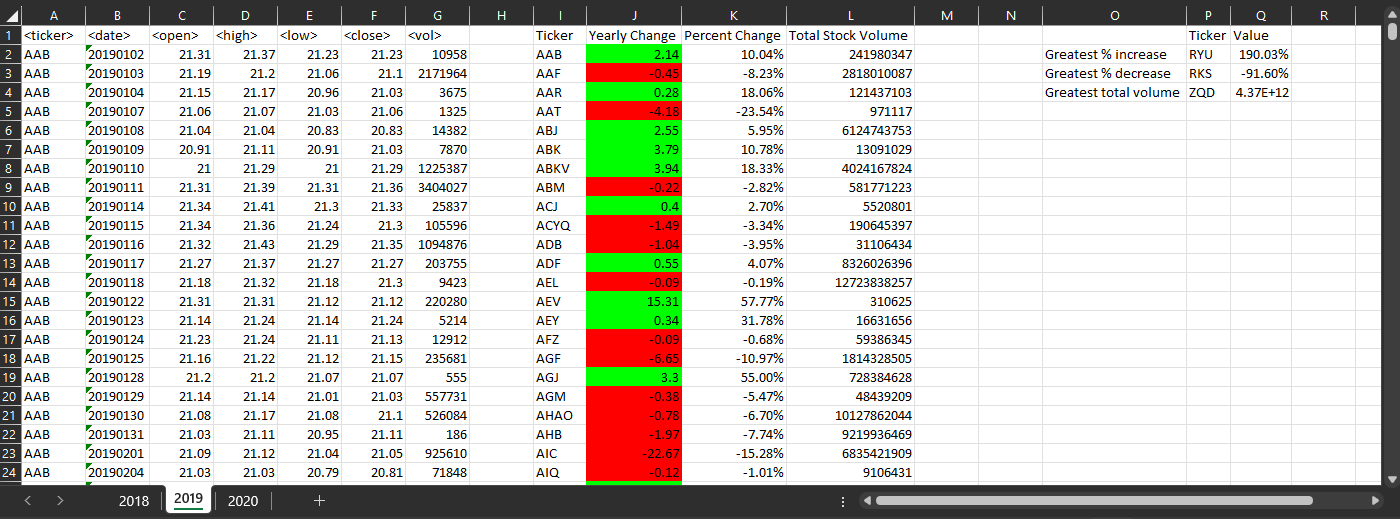
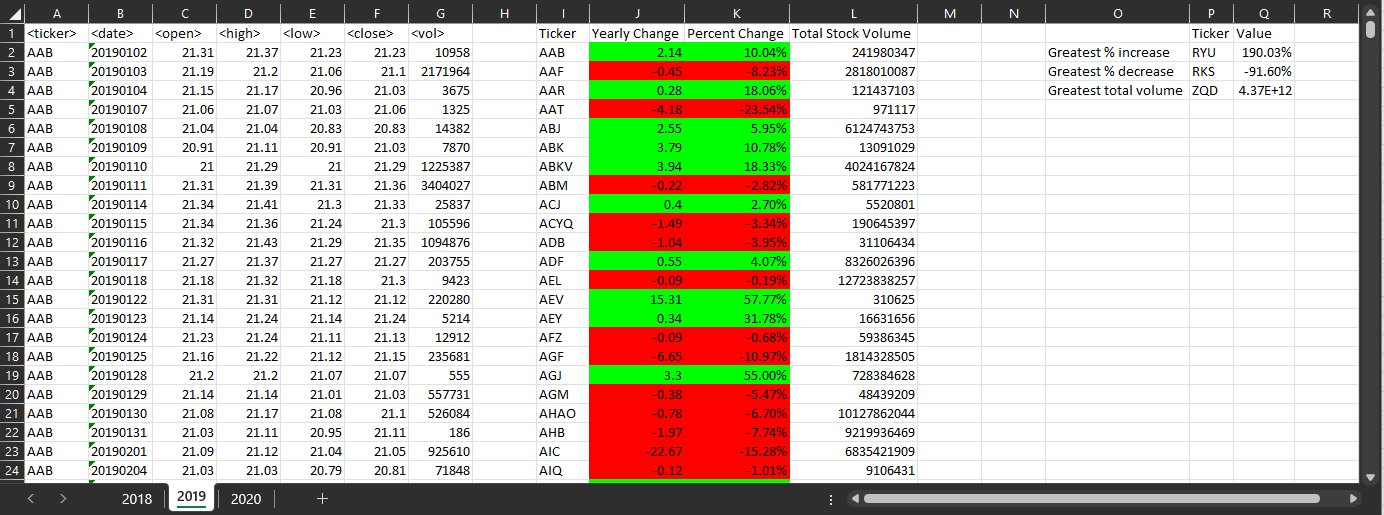
updated scripts to format the % change column with the yearly change; updated screenshot results accordingly; updated readme to include more description for the screenshots.

Changed region(s): [[0.0, 0.0, 1.0, 1.0]]

diff --git a/README.md b/README.md
@@ -3,12 +3,12 @@ This repository contains challenge files for UT DAV Bootcamp Module 2 VBA Script
 
 # File Notes
 * There was debate on intepretation of the instructions so I have two scripts
-   * Stocksummary.vbs is the script that implements the requirements documented within the Instructions section with a summary on each tab. (makes sense for Multiple_year_stock_data workbook)
-   * StockSummaryFirstTab.vbc is the script that implements requirements documented within the Instructions section with a summary on the first tab only. (makes sense for alphabetical_testing workbook)
+   * StocksummaryPerTab.vbs is the script that implements the requirements documented within the Instructions section with a summary on each tab. (makes sense for Multiple_year_stock_data workbook)
+   * StockSummaryFirstTab.vbs is the script that implements requirements documented within the Instructions section with a summary on the first tab only. (makes sense for alphabetical_testing workbook)
    * Note: Both scripts assume the the data is sorted alphadetically by ticker name then chronologicaly by date. This assumption allows for lighter processer usage during the analysis.
 * The Results_Screenshots folder contains screenshots of each tab after executing the script on alphabetical_testing and  Multiple_year_stock_data.
-   * MultiYearStock_20##Results are for each tab of the Multiple_year_stock_data workbook
-   * AlphaTesting_*results are for each tab of the alphabetical_testing workbook
+   * MultiYearStock_20##Results are for each tab of the Multiple_year_stock_data workbook from using StocksummaryPerTab.vbs. Since the desired summary indicated a yearly change, it made sense to have a summary on each sheet.
+   * AlphaTesting_AllResultsFirstSheet is for the first sheet of the alphabetical_testing workbook from using StockSummaryFirstTab.vbs. This is a split view to show that summary results were pulled in from the other tabs as the data was all relevant to the same year and summarized in one place.
 * The Starter_Code folder contains the excel files and screenshots provided in BCS/Canvas for completing the challenge.
 
 # References
